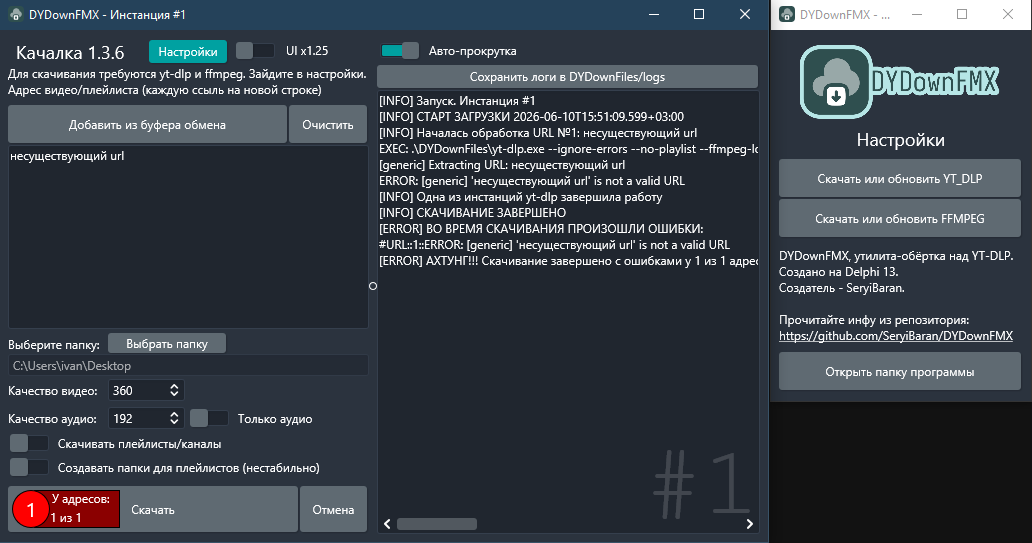
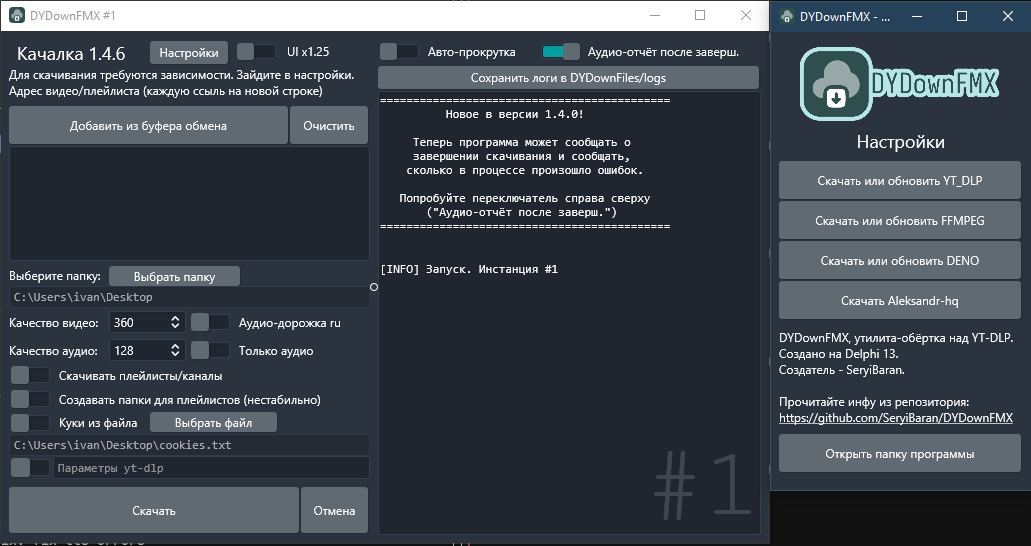
docs: readme

diff --git a/README.md b/README.md
@@ -6,13 +6,39 @@
 
 Утилита-обёртка над YT-DLP. Создано на Delphi 13.0 FMX для Windows 10+.
 
-Последняя версия - [скачать (11 759.5 KiB)](https://github.com/SeryiBaran/DYDownFMX/releases/latest/download/DYDownFMX.exe)
+Последняя версия - [скачать (11 896 KiB)](https://github.com/SeryiBaran/DYDownFMX/releases/latest/download/DYDownFMX.exe)
 
-Перед использованием откройте `Настройки` и нажмите 2 кнопки - для скачивания YT-DLP и FFMPEG соответственно.
+## Фичи
+
+- **Управление зависимостями** - встроенные кнопки для автоматической загрузки (обновления):
+  - `yt-dlp.exe` (сама качалка)
+  - `ffmpeg.exe` (для конвертации. Рекомендуется)
+  - `deno.exe` (для выполнения JS-скриптов, повышает стабильность. Рекомендуется)
+  - TTS-голос (тихо, абсолютно без участия пользователя)s
+- **Масштабирование интерфейса (BigUI)** - увеличение всех контролов основного окна до 125% для удобства работы на больших экранах или с проблемами зрения
+- **Голосовой отчёт (TTS)** - по окончании загрузки программа **сообщит об этом вслух**, назовет свой номер и **скажет количество ошибок** (если есть). Работает это через SAPI голос `Aleksandr-hq`. Устанавливается одной кнопкой в настройках, без участия пользователя
+- **Скачивание русской аудиодорожки**
+- **Поддержка плейлистов** - загрузка всего плейлиста с автоматическим созданием папки под каждый плейлист (по желанию)
+- **Обход ограничений через cookies** - выберите cookies.txt для доступа к возрастным или приватным видео
+- **Работает на любой картошке** - Delphi. Этим всё сказано. Ну а для фанатов Jayfeather'а - ест 43MB озу и пару процентов ЦП.
+- **Поддержка нескольких экземпляров** - по причине выше можно запустить до 32 инстанций программы одновременно (все они пронумерованы)
+- **История загрузок** - все закачки сохраняются в CSV-файл со всеми параметрами
+- **Сохранение настроек** - все хранится в INI-файле
+- **Конвертация в MP3** сразу
+- **Сохранение вывода в файл** - полезно иногда, не?
+- **Проброс параметров до yt-dlp**
+- **Индикатор ошибок** - красный кружок у кнопки скачивания покажет кол-во ошибок и посчитает проблемные адреса. Если все оки, он будет зелёным и покажет "0"
+- **Рофлы** - Александр будет рофлить. По ситуации.
+
+---
+
+## Инфа
+
+Перед использованием откройте `Настройки` и нажмите кнопки для скачивания зависимостей.
 
 Если программа не работает или выдает ошибки, удалите папку `DYDownFiles` и перезапустите программу.
 
-Настройки сохраняются в `DYDownFiles/config.ini`, а история загрузок в `DYDownFiles/history.csv`. В ранних версиях это были `DYDownFiles/config.json`, и `DYDownFiles/history.txt` соответственно.
+Настройки сохраняются в `DYDownFiles/config.ini`, а история загрузок в `DYDownFiles/history__x.x.x.csv`. В ранних версиях это были `DYDownFiles/config.json`, и `DYDownFiles/history.txt` соответственно.
 
 Софтина кушает очень мало оперативки. При этом статично - что в фоне, что при работе жрет одинаково.
 
